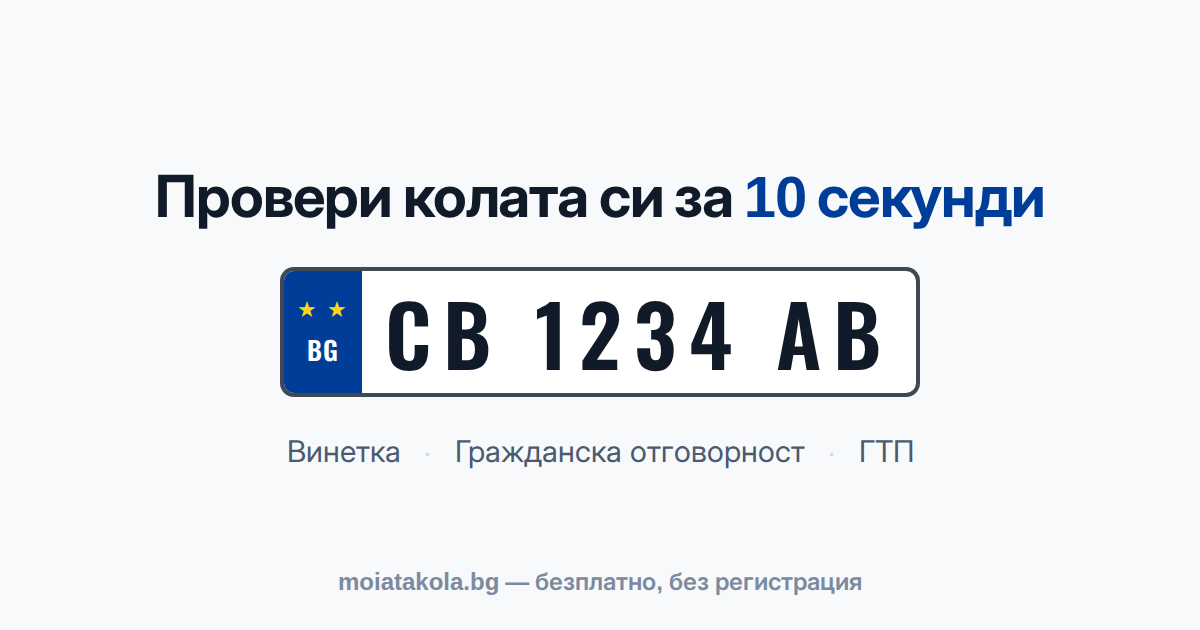
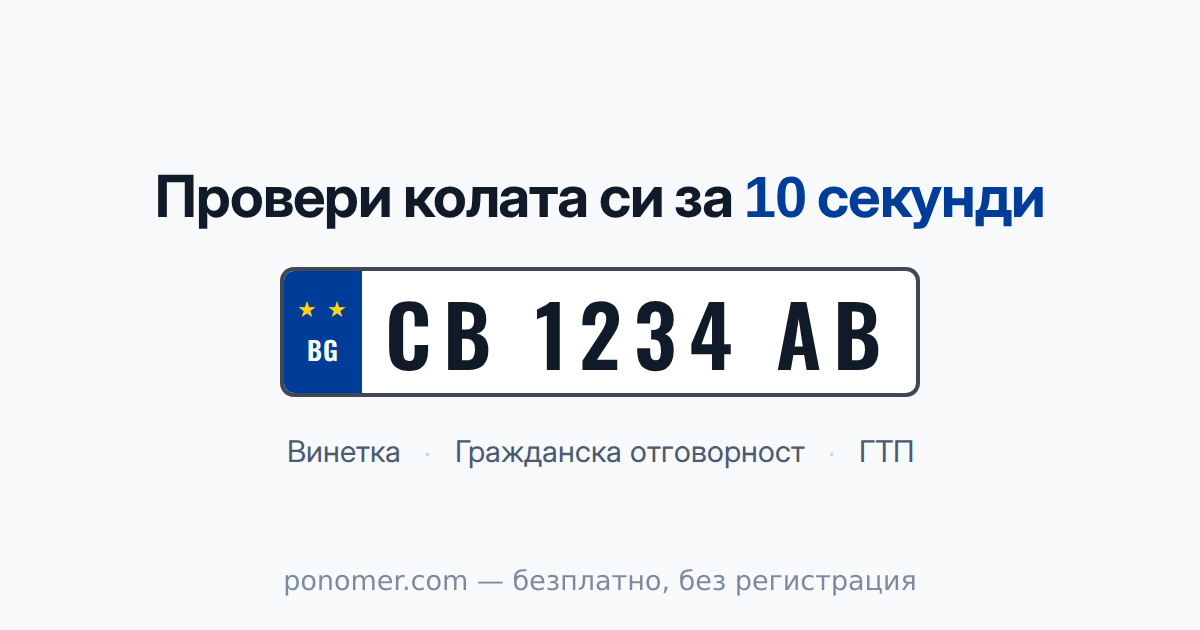
Switch domain from moiatakola.bg to ponomer.com
Update SITE_URL, site config (domain, url, contact email), robots.txt
sitemap URL, llms.txt links, README, docs, and the OG share image
footer text. Canonicals, sitemap and JSON-LD pick the new domain up
automatically from the config.

https://claude.ai/code/session_01NxykQ6zoEq9KLAkRnzdCCt

Changed region(s): [[0.2158, 0.9048, 0.7708, 0.9349]]

diff --git a/src/lib/site.ts b/src/lib/site.ts
@@ -1,13 +1,13 @@
 export const SITE = {
   name: "По номер",
-  domain: "moiatakola.bg",
-  url: "https://moiatakola.bg",
+  domain: "ponomer.com",
+  url: "https://ponomer.com",
   tagline:
     "Провери колата си за 10 секунди — винетка, глоби, ГТП и Гражданска отговорност на едно място.",
   description:
     "Безплатна проверка на винетка, Гражданска отговорност и ГТП по регистрационен номер. Актуални цени на винетки в евро и лева. Неофициален инструмент с данни от официалните системи.",
   locale: "bg_BG",
-  email: "kontakt@moiatakola.bg",
+  email: "kontakt@ponomer.com",
 } as const;
 
 /**

diff --git a/docs/iaaa-data-request.md b/docs/iaaa-data-request.md
@@ -11,13 +11,13 @@
 ---
 
 **До:** ИА „Автомобилна администрация", Министерство на транспорта и съобщенията
-**От:** `<име / фирма / ЕИК>`, проект „По номер" (moiatakola.bg)
+**От:** `<име / фирма / ЕИК>`, проект „По номер" (ponomer.com)
 **Относно:** Достъп до справка за валиден периодичен технически преглед (ГТП) по
 регистрационен номер за информационни цели
 
 Уважаеми дами и господа,
 
-Разработваме безплатен потребителски инструмент (moiatakola.bg), който помага на
+Разработваме безплатен потребителски инструмент (ponomer.com), който помага на
 българските шофьори да проверят на едно място състоянието на автомобила си —
 винетка, Гражданска отговорност и годишен технически преглед — по регистрационен
 номер. Данните се представят с ясно обозначение, че източникът е официалната

diff --git a/README.md b/README.md
@@ -1,4 +1,4 @@
-# По номер — moiatakola.bg
+# По номер — ponomer.com
 
 Един сайт, в който всеки български шофьор проверява всичко за колата си —
 **винетка, глоби, ГТП и Гражданска отговорност** — по регистрационен номер, за секунди.
